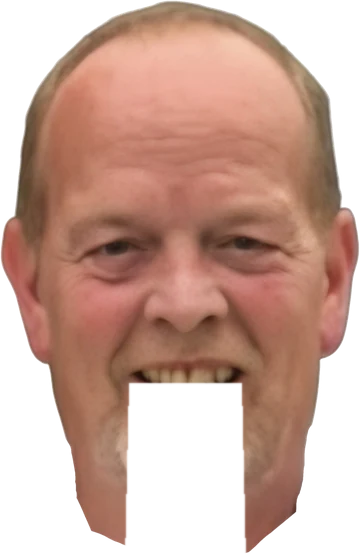
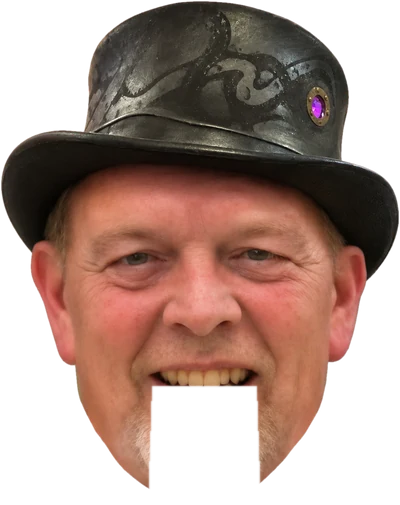
Sonny & Eddie Show: use the photo of Eddie in a top hat
Replaces Eddie's head and the pasted-on hat with the new photo of Eddie
wearing the hat, split at the mouth for the dummy jaw.

Claude-Session: https://claude.ai/code/session_01HKyCc4k4tbjRR5EKmTbVKW

diff --git a/carnival/ventriloquist/index.html b/carnival/ventriloquist/index.html
@@ -48,9 +48,9 @@ const cv = $("cv"), ctx = cv.getContext("2d");
 const clamp = (v, a, b) => Math.max(a, Math.min(b, v));
 const store = { get(k) { try { return localStorage.getItem(k); } catch (e) { return null; } }, set(k, v) { try { localStorage.setItem(k, v); } catch (e) {} } };
 const img = s => { const i = new Image(); i.src = s; return i; };
-const I = { sonny: img("img/sonny.webp"), top: img("img/eddie-top.webp"), jaw: img("img/eddie-jaw.webp"), hat: img("img/hat.webp") };
+const I = { sonny: img("img/sonny.webp"), top: img("img/eddie-top.webp"), jaw: img("img/eddie-jaw.webp") };
 // sizes of the pictures and where Eddie's mouth is
-const EW = 360, EH = 560, MOUTH_Y = 383, JAW_L = 129, JAW_R = 241, SW = 420, SH = 480, HW = 420, HH = 240;
+const EW = 400, EH = 505, MOUTH_Y = 386, JAW_L = 152, JAW_R = 256, SW = 420, SH = 480, HW = 420, HH = 240;
 
 // ---------- Voices ----------
 let voiceOn = store.get("ve-voice") !== "off";
@@ -226,17 +226,14 @@ function drawEddie(son) {
   ctx.strokeStyle = "#2a2a30"; ctx.lineWidth = u * 0.22; ctx.beginPath(); ctx.moveTo(x - u * 0.68, ty + u * 0.4); ctx.lineTo(x - u * 0.8, base - u * 0.3); ctx.stroke();
   ctx.fillStyle = "#e9b08e"; ctx.beginPath(); ctx.arc(x - u * 0.8, base - u * 0.25, u * 0.13, 0, 7); ctx.fill();
   // head: top part, dark mouth gap, then the jaw that drops; dummy lines down from the corners
-  const hw = u * 1.4, s = hw / EW, hh = EH * s, hx = x - hw / 2, hy = ty - hh * 0.86;
+  const hw = u * 1.65, s = hw / EW, hh = EH * s, hx = x - hw / 2, hy = ty - hh * 0.9;
   const drop = S.jaw * u * 0.42;
   ctx.save(); ctx.translate(x, ty); ctx.rotate(turn); ctx.translate(-x, -ty);
   ctx.fillStyle = "#2a0a0e"; ctx.fillRect(hx + JAW_L * s, hy + MOUTH_Y * s - 2, (JAW_R - JAW_L) * s, drop + 4);
   if (I.jaw.complete && I.jaw.naturalWidth) ctx.drawImage(I.jaw, hx, hy + drop, hw, hh);
   if (I.top.complete && I.top.naturalWidth) ctx.drawImage(I.top, hx, hy, hw, hh);
   ctx.strokeStyle = "rgba(60,25,15,.55)"; ctx.lineWidth = 1.2;
-  for (const jx of [JAW_L, JAW_R]) { ctx.beginPath(); ctx.moveTo(hx + jx * s, hy + MOUTH_Y * s + drop); ctx.lineTo(hx + jx * s, hy + (MOUTH_Y + 95) * s + drop); ctx.stroke(); }
-  // Sonny's top hat on Eddie, sized to his head
-  const hatW = hw * 1.18, hatH = hatW * HH / HW;
-  if (I.hat.complete && I.hat.naturalWidth) ctx.drawImage(I.hat, x - hatW * 0.5, hy - hatH * 0.62, hatW, hatH);
+  for (const jx of [JAW_L, JAW_R]) { ctx.beginPath(); ctx.moveTo(hx + jx * s, hy + MOUTH_Y * s + drop); ctx.lineTo(hx + jx * s, hy + (MOUTH_Y + 85) * s + drop); ctx.stroke(); }
   ctx.restore();
   return { x, hy };
 }

diff --git a/carnival/sw.js b/carnival/sw.js
@@ -1,5 +1,5 @@
 // Carnival Midway offline cache. Bump VERSION when you change any file.
-const VERSION = "midway-v33";
+const VERSION = "midway-v34";
 const CORE = [
   "./", "index.html", "coins.js", "manifest.webmanifest", "icon-192.png", "icon-512.png", "icon-maskable-512.png", "apple-touch-icon.png", "favicon-32.png",
   "down-the-clown/", "down-the-clown/index.html",
@@ -10,7 +10,7 @@ const CORE = [
   "sonnys-big-head/", "sonnys-big-head/index.html", "sonnys-big-head/img/sonny.webp",
   "duck-duck-splash/", "duck-duck-splash/index.html", "duck-duck-splash/img/glasses.webp", "duck-duck-splash/img/tophat.webp", "duck-duck-splash/img/bald.webp",
   "dunk-tank/", "dunk-tank/index.html", "dunk-tank/img/bald.webp", "dunk-tank/img/glasses.webp", "dunk-tank/img/bandana.webp", "dunk-tank/img/tophat.webp",
-  "ventriloquist/", "ventriloquist/index.html", "ventriloquist/bits.js", "ventriloquist/img/sonny.webp", "ventriloquist/img/eddie-top.webp", "ventriloquist/img/eddie-jaw.webp", "ventriloquist/img/hat.webp",
+  "ventriloquist/", "ventriloquist/index.html", "ventriloquist/bits.js", "ventriloquist/img/sonny.webp", "ventriloquist/img/eddie-top.webp", "ventriloquist/img/eddie-jaw.webp",
   "fortune-sonny/", "fortune-sonny/index.html", "fortune-sonny/fortunes.js", "fortune-sonny/img/sonny.webp", "fortune-sonny/img/machine.webp", "fortune-sonny/img/card.webp",
 ];
 

diff --git a/README.md b/README.md
@@ -101,4 +101,4 @@ It works offline once it has been opened. High scores are saved on each device.
 
 - 40 bits in `bits.js`, each a list of lines marked `"S"` (Sonny) or `"E"` (Eddie). Copy one to add more.
 - Every line is pre-recorded in `voice/`: Sonny in the Joe voice, Eddie in a higher, squeakier dummy voice. Eddie’s jaw is cut out of his picture (`img/eddie-top.webp` and `img/eddie-jaw.webp`) and drops in time with how loud his voice is. New lines without a recording use the phone’s voice.
-- The hat (`img/hat.webp`) is cut from Sonny’s top-hat photo.
+- Eddie’s picture is a photo of him in a top hat like Sonny’s.
